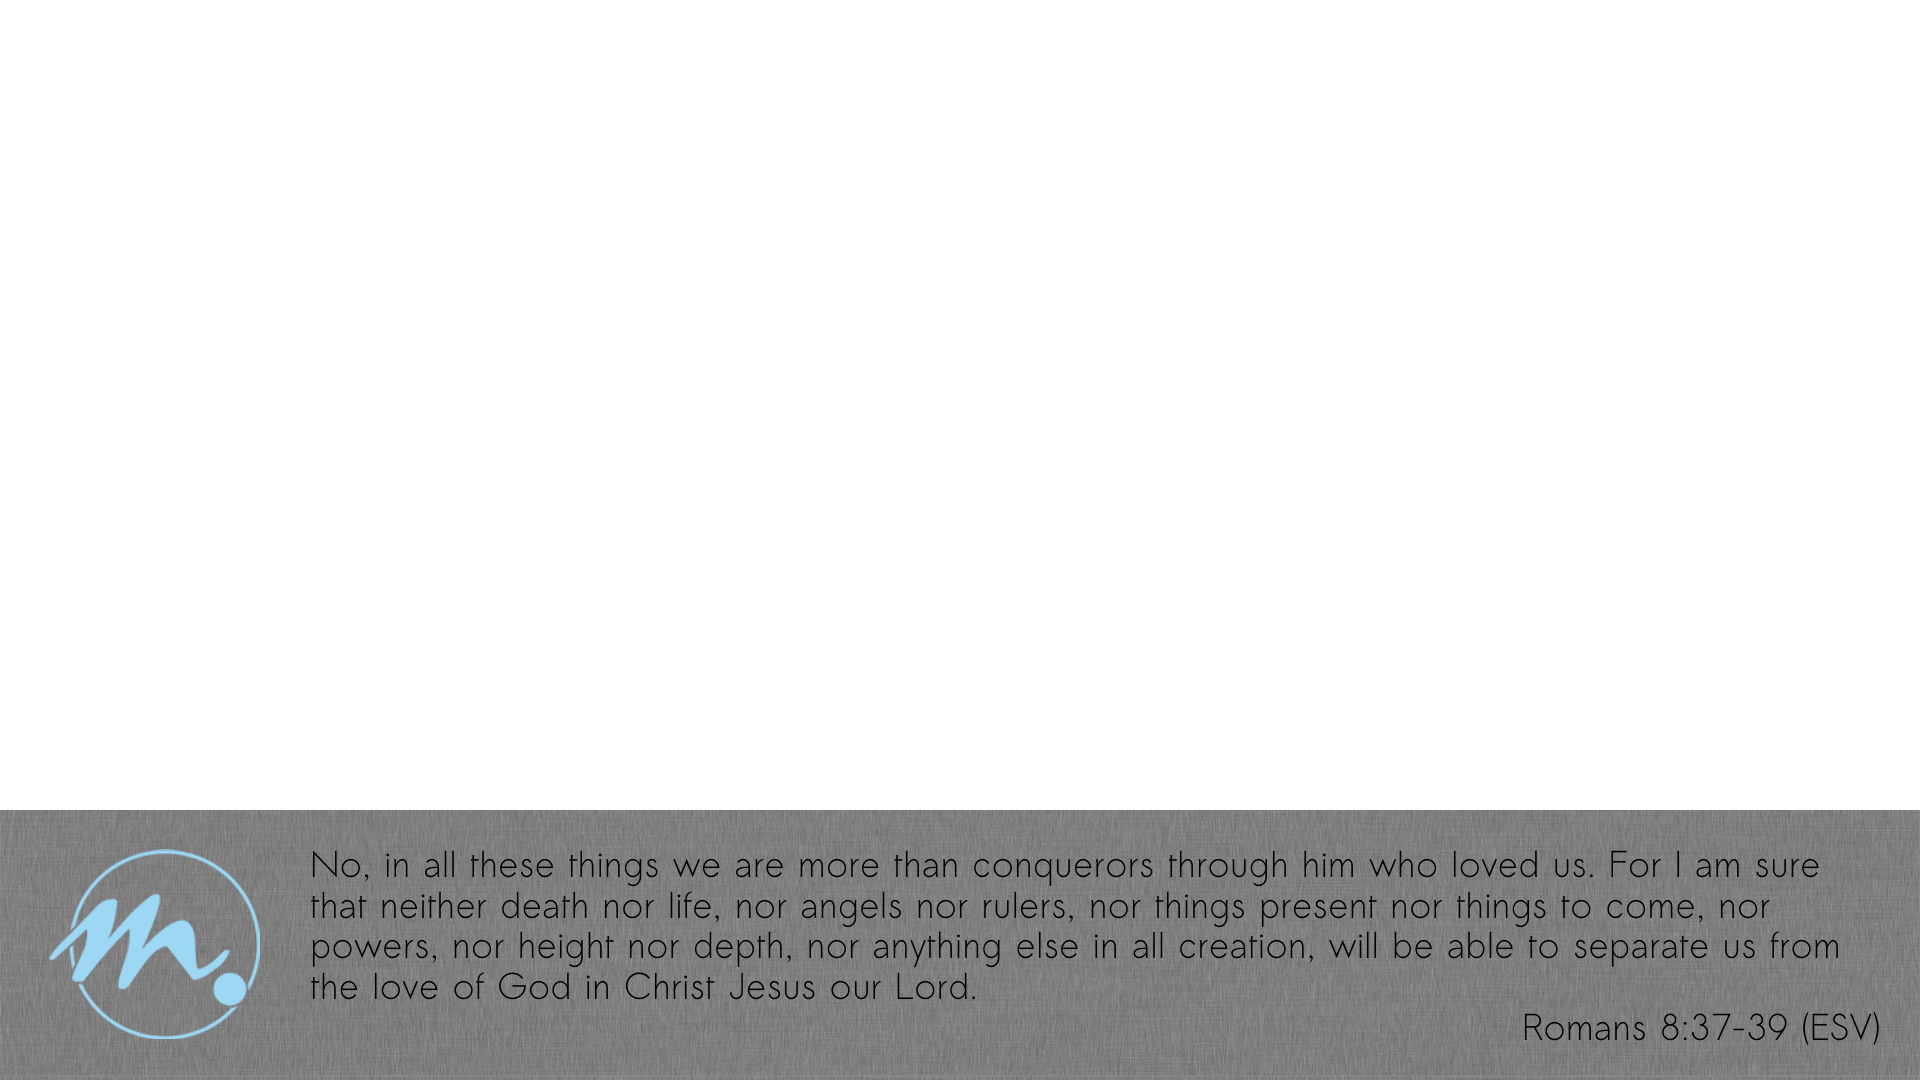
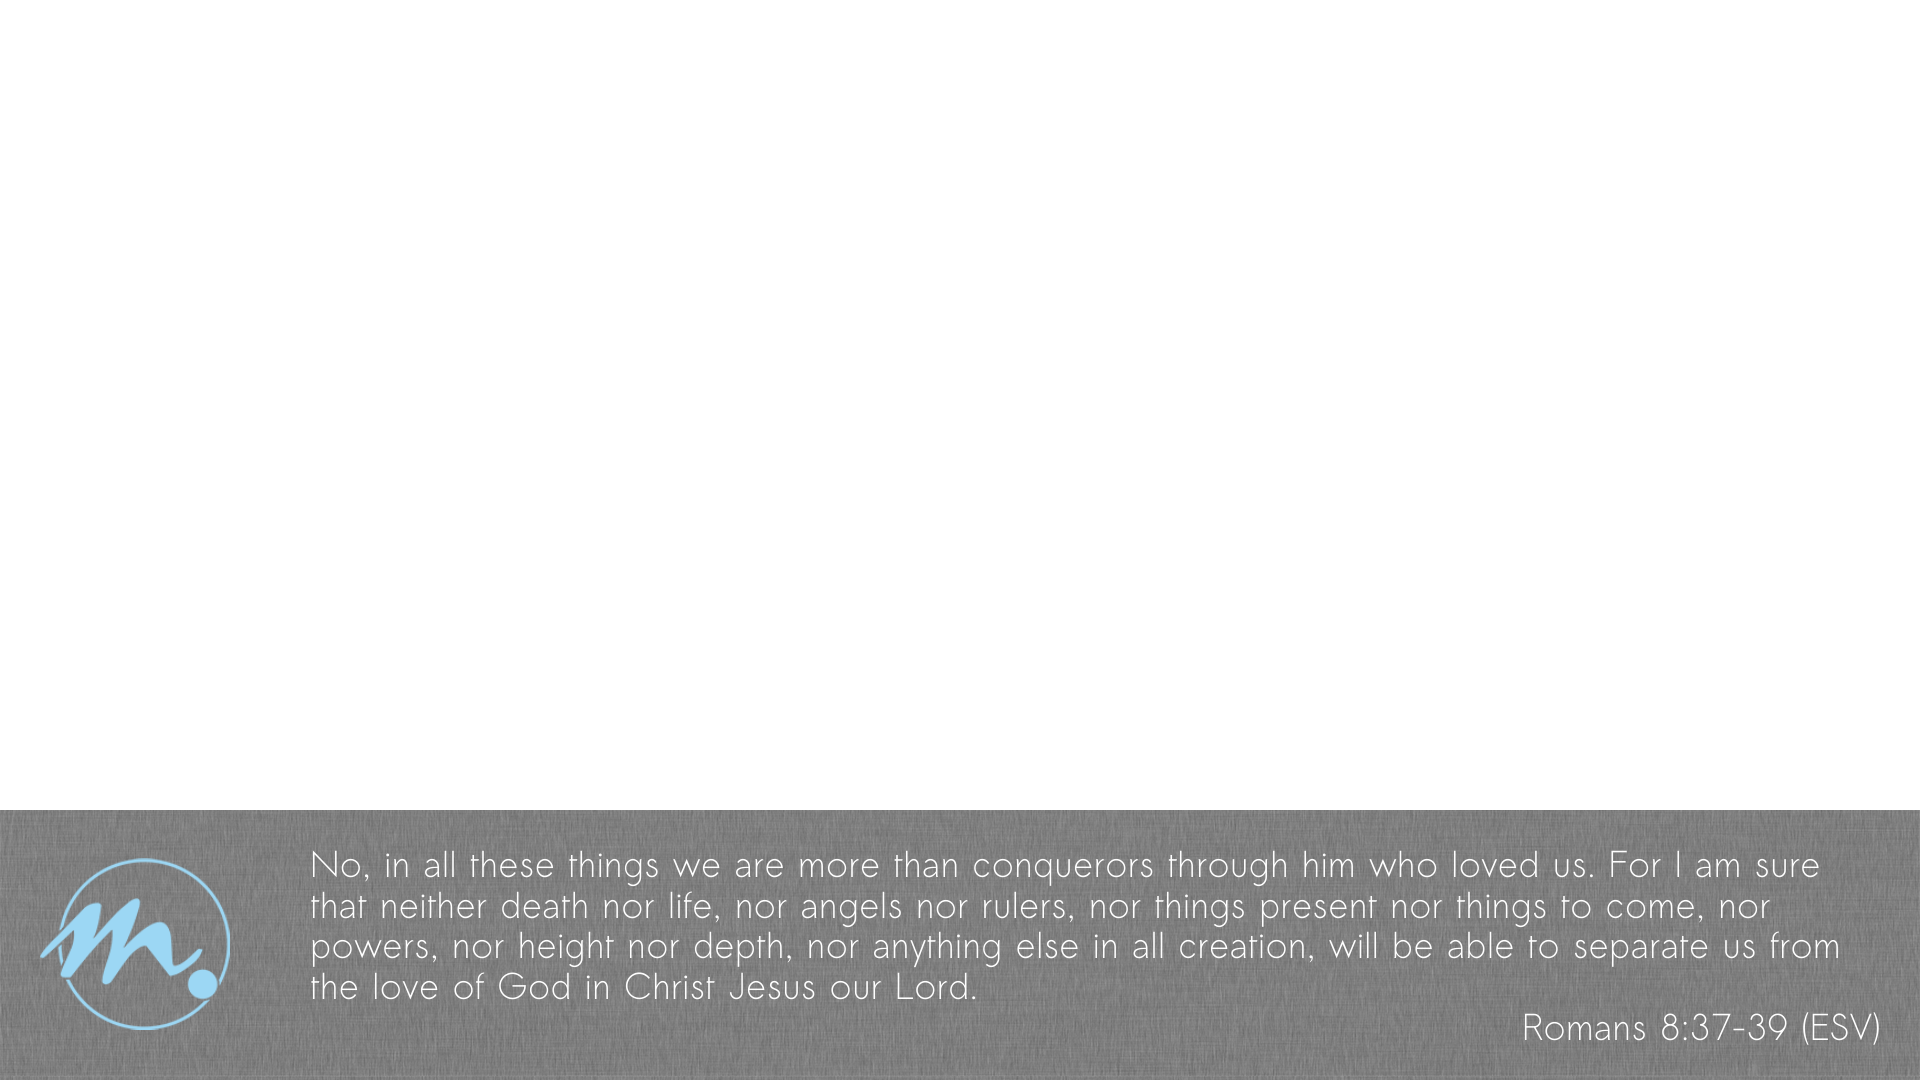
Add documentation and new features
- right and left borders
- font colors
- more careful formatting.

diff --git a/README.md b/README.md
@@ -1,0 +1,103 @@
+# mp-livestream-imagegen #
+
+Generates lower-third images for overlaying the video of our church
+services.
+
+## usage ##
+
+`$ mp-livestream-imagegen slides.toml`
+
+The command reads a TOML formatted configuration file and generates a
+series of PNG images in an `output` subdirectory.
+
+## Configuration ##
+
+All of the information for the slides are contained in a `slides.toml`
+file passed on the command line. This file is formatted as a [TOML
+document](https://github.com/toml-lang/toml).
+
+The first section of the document contains the setup information that
+is used to configure the slides.
+
+For example:
+
+    [setup]
+    width = 1920
+    height = 1080
+    size = 270
+    background = 'MiraclesLowerMain.png'
+    border = 40
+    left_border = 350
+    right_border = 200
+    icon = 'MiraclesLowerIMAGE.png'
+    font = '../GENERAL-GRAPHICS/verdana.ttf'
+	font_color = 'white'
+    verse_size = 40
+    title_size = 90
+
+The fields:
+
+* *width & height*: The dimensions of the video.
+* *size*: the height of the lower-third box
+* *background*: A pathname to an image file that will be used as the
+  background for the lower-third. If the image is smaller than
+  `width`x`size` then the image is replicated to fill the region
+* *border*: distances from the edge of the lower-third to any text of
+  pictures.
+* *left_border* & *right_border*: Size on the left an right half of
+  the lower-third that will not be used for content. Both of these can
+  be omitted or set to zero if no size needs to be reserved. Usually
+  these are used because the background image contains graphics that
+  shouldn't be overwritten.
+* *icon*: A pathname to an image file that will be inserted in the
+  region defined by the *left_border* config. The image will be scaled
+  to keep the same aspect ratio and be as large as possible while
+  keeping a *border* blank spot around it. The image will also be
+  centered.
+* *font*: a pahtname to a TrueType font file used for render text in
+  slides.
+* *font_color*: color of text
+* *verse_size*: size of text on verse slides (see below)
+* *title_size*: size of text on title slides (see below)
+
+Some of these configuation variables are shown on the following
+diagram.
+
+![background layout diagram](img/background.png)
+
+After the `[setup]` block in the config file there are a series of
+`[[slide]]` blocks that define the different slides that should be
+created.
+
+
+### Verse slides ###
+
+These are slides for displaying a bible verse. It contains two
+parts. The text of the actual verse and the reference where the verse
+is found in the bible. An example:
+
+    [[slide]]
+    text = '“Go,” said Jesus, “your faith has healed you.” Immediately he received his sight and followed Jesus along the road.'
+    ref = 'Mark 10:52 (NIV)'
+
+The *text* field is written in the center region of the slide starting
+in the upper-left after leaving space for the *border*. The string is
+word-wrapped using the full width and as many lines as needed.
+
+The *ref* field is written in a single line right-justified in the
+lower right corner.
+
+![verse slide diagram](img/verse-slide.png)
+
+### Title slides ###
+
+These slide are for highlighting a main point in a sermon series and
+contain a single line of text in a larger font size centered on the
+screen. The slide looks like this:
+
+    [[slide]]
+	title = 'Documentation is hard'
+
+And is rendered like this:
+
+![title slide diagram](img/title-slide.png)
